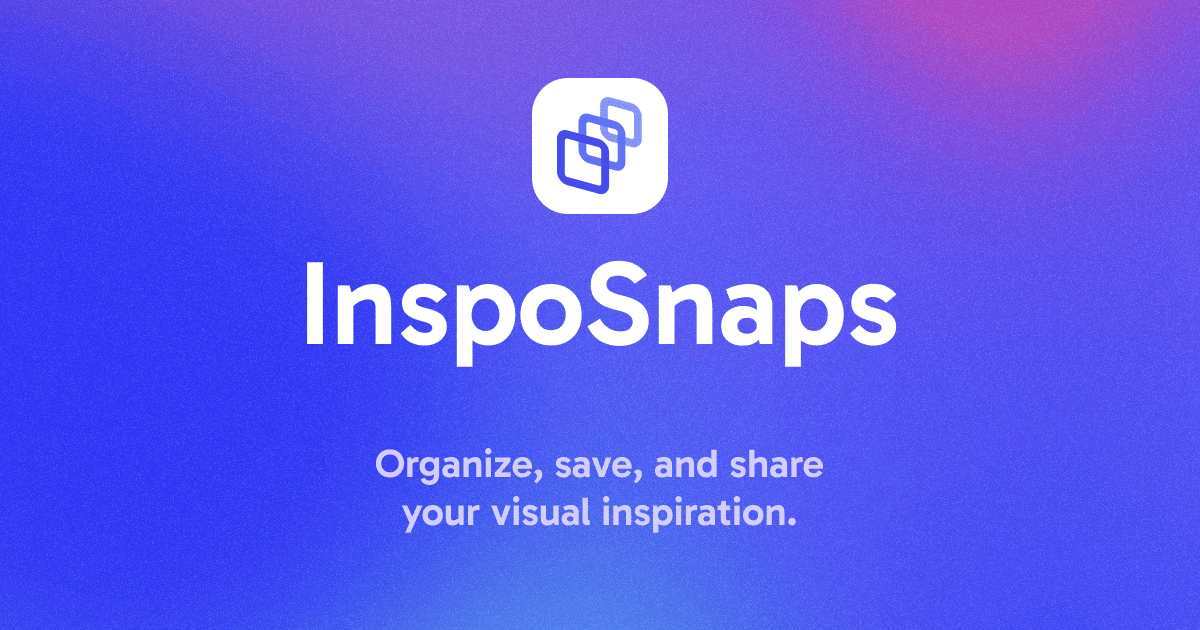
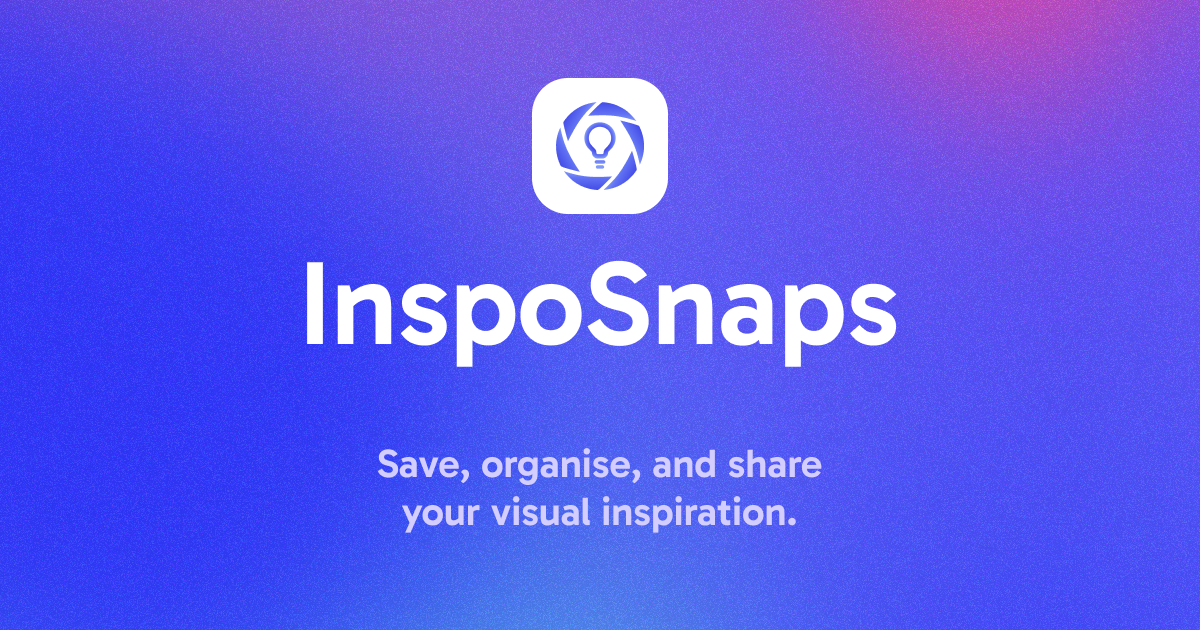
Update brand assets, BrandLogo, robots.txt, and sitemap
Replace favicon, PWA icons, and OG image with new brand assets.
Update BrandLogo component with new SVG design. Add privacy/terms
to sitemap and robots.txt, add invite/team-invite to disallow list.

Changed region(s): [[0.4625, 0.1508, 0.555, 0.3016], [0.3083, 0.7238, 0.6783, 0.7841]]

diff --git a/src/components/ui/svgs/BrandLogo.tsx b/src/components/ui/svgs/BrandLogo.tsx
@@ -8,25 +8,152 @@ export const BrandLogo = ({ size = 24, className }: BrandLogoProps) => {
 		<svg
 			fill="none"
 			height={size}
-			viewBox="0 0 40 48"
+			viewBox="0 0 512 512"
 			width={size}
 			className={className}
+			xmlns="http://www.w3.org/2000/svg"
 		>
 			<title>Brand Logo</title>
-			<g clipRule="evenodd" fillRule="evenodd">
+			<g clipPath="url(#clip0_41_3)">
 				<path
-					d="m34.5868 8.40061-9.6868-2.59556c-.6687-.17919-1.2108.23679-1.2108.92911v10.02854c0 .6923.5421 1.3988 1.2108 1.578l9.6868 2.5955c.6687.1792 1.2109-.2368 1.2109-.9291v-10.02848c0-.69232-.5422-1.39882-1.2109-1.57801zm-9.6868-6.35625c-2.6749-.71674-4.8434.94718-4.8434 3.71647v10.02847c0 2.7693 2.1685 5.5953 4.8434 6.312l9.6868 2.5956c2.6749.7168 4.8434-.9472 4.8434-3.7165v-10.0284c0-2.76934-2.1685-5.59533-4.8434-6.31207z"
-					fill="#8098f9"
+					d="M46.001 402.5C139.831 433.33 199.876 440.865 323.501 433C326.001 433 330.501 430 287.501 473C244.501 516 242.001 512 242.001 512C242.001 512 183.001 511 129.501 479C81.001 454 46.001 402.5 46.001 402.5Z"
+					fill="url(#paint0_linear_41_3)"
 				/>
 				<path
-					d="m26.9812 16.5707-12.1085-3.2444c-.6687-.1792-1.2109.2368-1.2109.9291v12.5356c0 .6923.5422 1.3988 1.2109 1.578l12.1085 3.2445c.6687.1792 1.2108-.2368 1.2108-.9291v-12.5356c0-.6924-.5421-1.3989-1.2108-1.5781zm-12.1085-7.0051c-2.6749-.71674-4.8434.9472-4.8434 3.7165v12.5356c0 2.7693 2.1685 5.5953 4.8434 6.312l12.1085 3.2445c2.6749.7167 4.8433-.9472 4.8433-3.7165v-12.5356c0-2.7693-2.1684-5.5953-4.8433-6.312z"
-					fill="#6172f3"
+					d="M276.001 511.611C349.615 445.767 386.163 397.533 441.165 286.539C442.415 284.374 442.067 278.976 457.806 337.716C473.545 396.455 468.831 396.62 468.831 396.62C468.831 396.62 438.465 447.215 384.002 477.548C338.101 507.05 276.001 511.611 276.001 511.611Z"
+					fill="url(#paint1_linear_41_3)"
 				/>
 				<path
-					d="m19.3736 24.7409-14.53021-3.8934c-.66873-.1792-1.21085.2368-1.21085.9291v15.0428c0 .6923.54212 1.3988 1.21085 1.578l14.53021 3.8933c.6687.1792 1.2108-.2368 1.2108-.9291v-15.0427c0-.6923-.5421-1.3988-1.2108-1.578zm-14.53021-7.6541c-2.67493-.7167-4.84339.9472-4.84339 3.7165v15.0427c0 2.7693 2.16846 5.5953 4.84339 6.3121l14.53021 3.8933c2.6749.7168 4.8433-.9472 4.8433-3.7164v-15.0428c0-2.7693-2.1684-5.5953-4.8433-6.312z"
-					fill="#444ce7"
+					d="M487.495 365.411C467.28 268.737 443.782 212.968 375.159 109.838C373.909 107.673 369.061 105.276 427.8 121.015C486.539 136.754 484.325 140.92 484.325 140.92C484.325 140.92 512.959 192.515 511.996 254.847C514.595 309.35 487.495 365.411 487.495 365.411Z"
+					fill="url(#paint2_linear_41_3)"
+				/>
+				<path
+					d="M466.989 110.599C373.16 79.7694 313.114 72.2343 189.489 80.099C186.989 80.099 182.489 83.099 225.489 40.099C268.489 -2.901 270.989 1.099 270.989 1.099C270.989 1.099 329.989 2.099 383.489 34.099C431.989 59.099 466.989 110.599 466.989 110.599Z"
+					fill="url(#paint3_linear_41_3)"
+				/>
+				<path
+					d="M236.409 0.799225C162.795 66.6432 126.247 114.877 71.2454 225.871C69.9954 228.036 70.3435 233.433 54.6044 174.694C38.8653 115.955 43.5794 115.79 43.5794 115.79C43.5794 115.79 73.9454 65.1947 128.408 34.8623C174.309 5.36011 236.409 0.799225 236.409 0.799225Z"
+					fill="url(#paint4_linear_41_3)"
+				/>
+				<path
+					d="M24.915 148C45.1306 244.674 68.6279 300.443 137.251 403.572C138.501 405.737 143.349 408.135 84.6102 392.395C25.8712 376.656 28.0853 372.491 28.0853 372.491C28.0853 372.491 -0.548716 320.896 0.414097 258.563C-2.18527 204.061 24.915 148 24.915 148Z"
+					fill="url(#paint5_linear_41_3)"
+				/>
+				<rect x="232" y="368" width="48" height="20" rx="10" fill="#8098F9" />
+				<rect
+					x="225"
+					y="339"
+					width="62"
+					height="20"
+					rx="10"
+					fill="url(#paint6_linear_41_3)"
+				/>
+				<path
+					d="M312.347 263.127L295.836 280.396C292.091 284.313 290 289.525 290 294.946C290 306.574 280.574 316 268.946 316H256H243.054C231.426 316 222 306.574 222 294.946C222 289.525 219.909 284.313 216.164 280.396L199.653 263.127C162.622 224.396 174.806 160.714 223.519 138.387C244.142 128.935 267.858 128.935 288.481 138.387C337.194 160.714 349.378 224.396 312.347 263.127Z"
+					stroke="url(#paint7_radial_41_3)"
+					strokeWidth="26"
 				/>
 			</g>
+			<defs>
+				<linearGradient
+					id="paint0_linear_41_3"
+					x1="185.495"
+					y1="402.5"
+					x2="185.495"
+					y2="512.099"
+					gradientUnits="userSpaceOnUse"
+				>
+					<stop stopColor="#8098F9" />
+					<stop offset="0.35" stopColor="#6172F3" />
+					<stop offset="1" stopColor="#444CE7" />
+				</linearGradient>
+				<linearGradient
+					id="paint1_linear_41_3"
+					x1="345.748"
+					y1="390.805"
+					x2="440.663"
+					y2="445.605"
+					gradientUnits="userSpaceOnUse"
+				>
+					<stop stopColor="#8098F9" />
+					<stop offset="0.35" stopColor="#6172F3" />
+					<stop offset="1" stopColor="#444CE7" />
+				</linearGradient>
+				<linearGradient
+					id="paint2_linear_41_3"
+					x1="417.748"
+					y1="244.605"
+					x2="512.663"
+					y2="189.806"
+					gradientUnits="userSpaceOnUse"
+				>
+					<stop stopColor="#8098F9" />
+					<stop offset="0.35" stopColor="#6172F3" />
+					<stop offset="1" stopColor="#444CE7" />
+				</linearGradient>
+				<linearGradient
+					id="paint3_linear_41_3"
+					x1="327.495"
+					y1="110.599"
+					x2="327.495"
+					y2="1.00057"
+					gradientUnits="userSpaceOnUse"
+				>
+					<stop stopColor="#8098F9" />
+					<stop offset="0.35" stopColor="#6172F3" />
+					<stop offset="1" stopColor="#444CE7" />
+				</linearGradient>
+				<linearGradient
+					id="paint4_linear_41_3"
+					x1="166.662"
+					y1="121.605"
+					x2="71.7471"
+					y2="66.8054"
+					gradientUnits="userSpaceOnUse"
+				>
+					<stop stopColor="#8098F9" />
+					<stop offset="0.35" stopColor="#6172F3" />
+					<stop offset="1" stopColor="#444CE7" />
+				</linearGradient>
+				<linearGradient
+					id="paint5_linear_41_3"
+					x1="94.6621"
+					y1="268.806"
+					x2="-0.252941"
+					y2="323.605"
+					gradientUnits="userSpaceOnUse"
+				>
+					<stop stopColor="#8098F9" />
+					<stop offset="0.35" stopColor="#6172F3" />
+					<stop offset="1" stopColor="#444CE7" />
+				</linearGradient>
+				<linearGradient
+					id="paint6_linear_41_3"
+					x1="256"
+					y1="337.494"
+					x2="256"
+					y2="360.506"
+					gradientUnits="userSpaceOnUse"
+				>
+					<stop stopColor="#6172F3" />
+					<stop offset="1" stopColor="#8098F9" />
+				</linearGradient>
+				<radialGradient
+					id="paint7_radial_41_3"
+					cx="0"
+					cy="0"
+					r="1"
+					gradientUnits="userSpaceOnUse"
+					gradientTransform="translate(256 219.75) rotate(90) scale(110.75 93.1539)"
+				>
+					<stop offset="0.626955" stopColor="#444CE7" />
+					<stop offset="0.833359" stopColor="#6172F3" />
+					<stop offset="0.96846" stopColor="#8098F9" />
+				</radialGradient>
+				<clipPath id="clip0_41_3">
+					<rect width="512" height="512" fill="white" />
+				</clipPath>
+			</defs>
 		</svg>
 	);
 };
